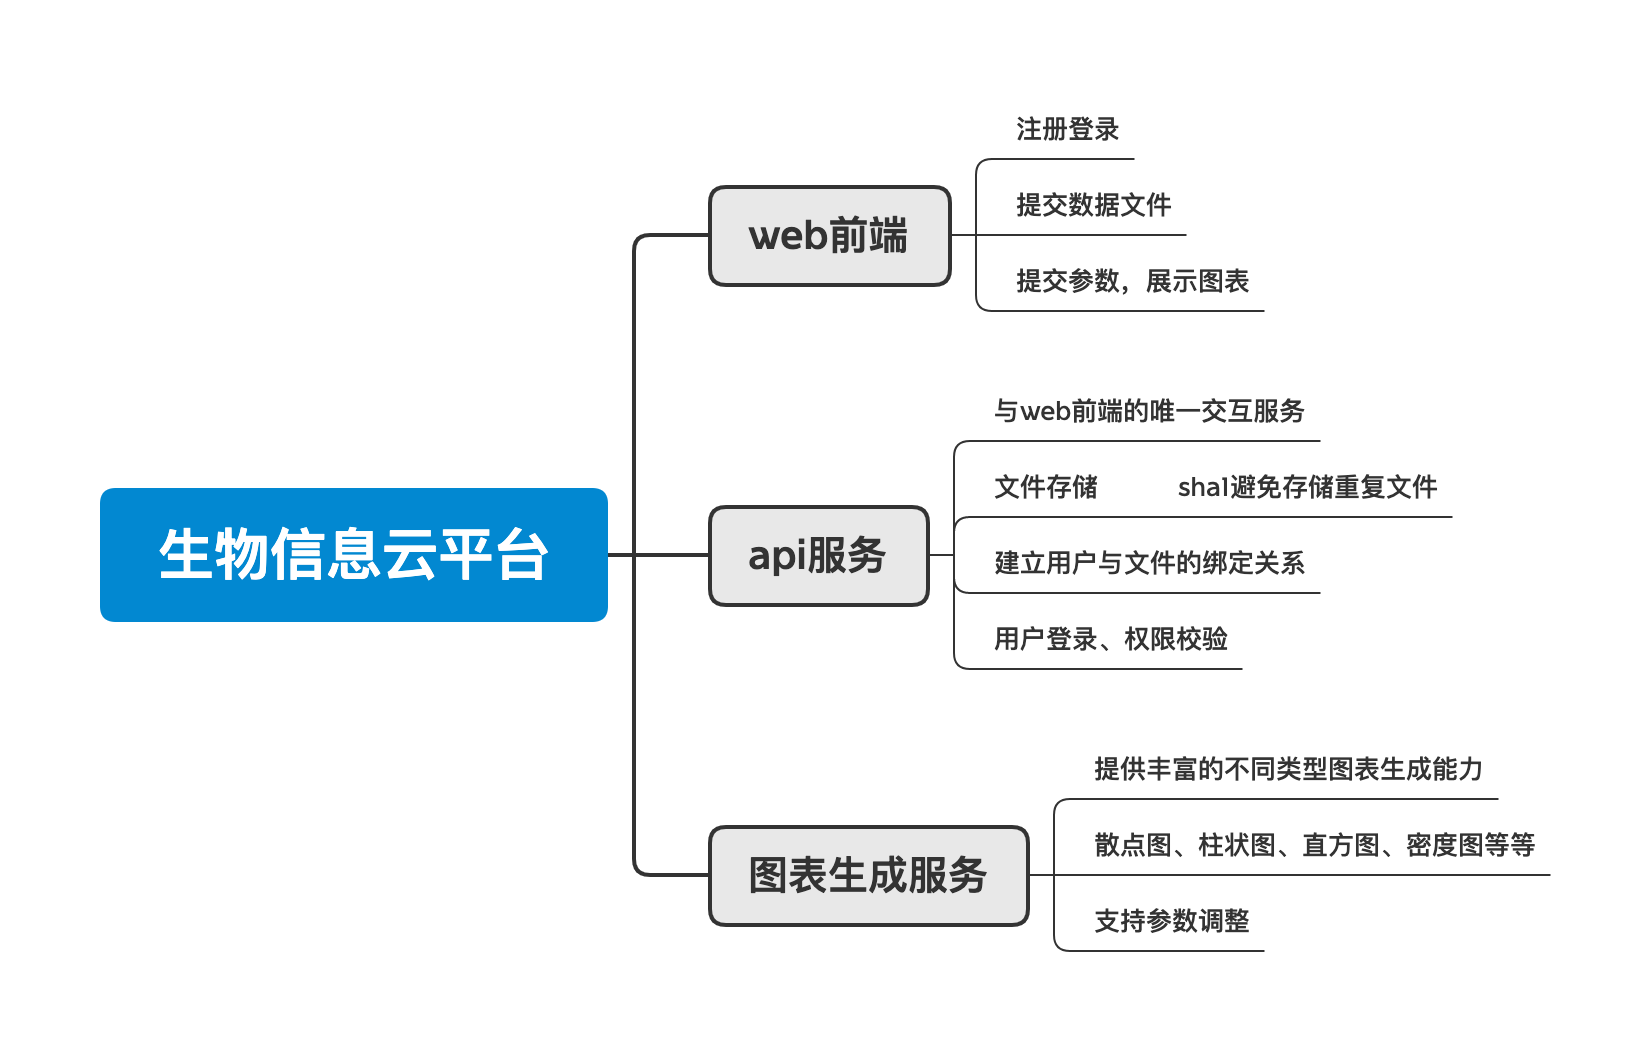
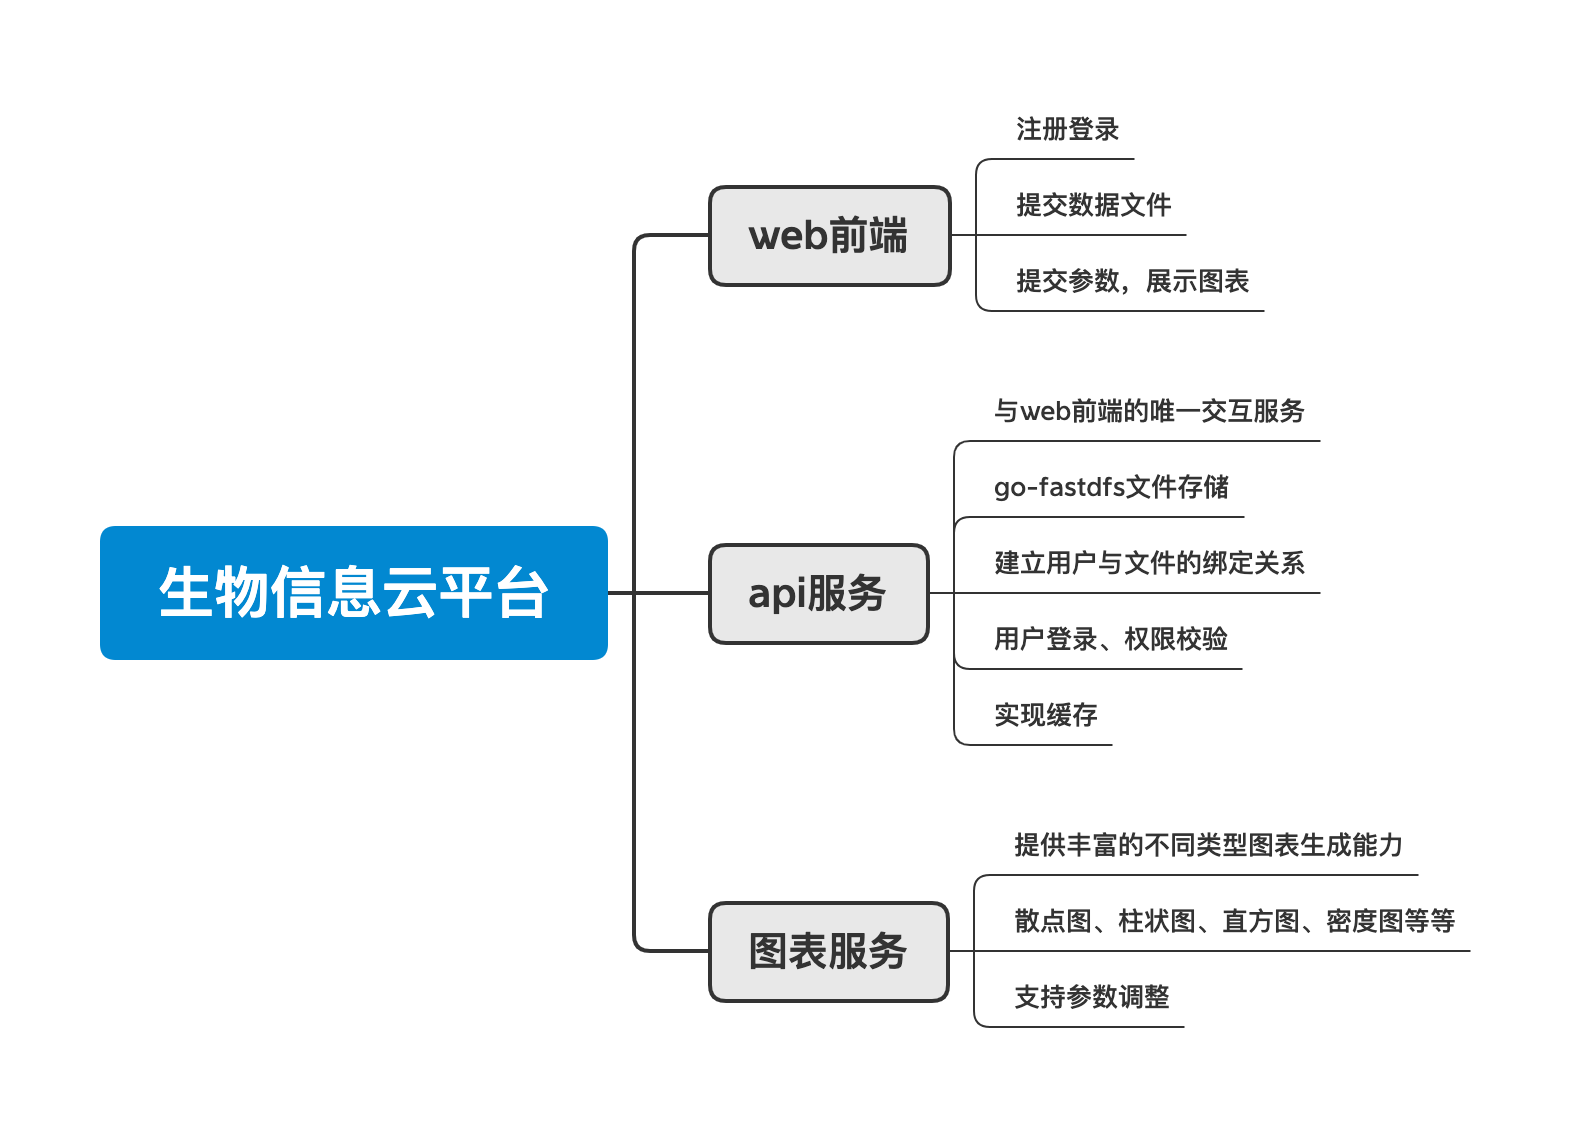
update

Changed region(s): [[0.0624, 0.0913, 0.9363, 0.9125], [0.0624, 0.4563, 0.0936, 0.4867]]

diff --git a/routers/init.go b/routers/init.go
@@ -24,8 +24,8 @@ func Setup() *gin.Engine {
 	router.Use(logger.GinLogger(), logger.GinRecovery(true))
 	config := cors.DefaultConfig()
 	config.AllowOrigins = settings.Conf.AllowOrigins
-	config.AllowCredentials = true
-	router.Use(cors.New(config))
+	//config.AllowCredentials = true
+	//router.Use(cors.New(config))
 	address := fmt.Sprintf("%s:%d", settings.Conf.RedisConfig.Host, settings.Conf.RedisConfig.Port)
 	store, err := redis.NewStore(16, "tcp", address, settings.Conf.RedisConfig.Password, []byte("secret"))
 	utils.CheckErr(err, "")
@@ -34,7 +34,8 @@ func Setup() *gin.Engine {
 	router.POST("/v1/login", v1.Login)
 	//router.Use(controller.SetAuthMiddleware())
 	SetUserRouter(router)
-	SetFileRouter(router)
+	//SetFileRouter(router)
+	SetChartRouter(router)
 	router.NoMethod(func(c *gin.Context) {
 		c.JSON(
 			http.StatusMethodNotAllowed,

diff --git a/settings/settings.go b/settings/settings.go
@@ -54,7 +54,7 @@ type BioChartConfig struct {
 
 func Init() (err error) {
 
-	viper.SetConfigFile("config.yaml")
+	viper.SetConfigFile("config_local.yaml")
 	//viper.SetConfigName("config") // 指定配置文件名称（不需要带后缀）
 	//viper.SetConfigType("yaml")   // 指定配置文件类型(专用于从远程获取配置信息时指定配置文件类型的)
 	viper.AddConfigPath(".")   // 指定查找配置文件的路径（这里使用相对路径）

diff --git a/controller/v1/file.go b/controller/v1/file.go
@@ -38,6 +38,7 @@ type uploadResp struct {
 // @Success 200 {object} utils.Resp
 // @Router /v1/upload [post]
 func Upload(c *gin.Context) {
+	// go-fastdfs 需要配置 peers 来组成集群：https://blog.csdn.net/tmt123421/article/details/90522244
 	//session := sessions.Default(c)
 	//userName := session.Get("userName").(string)
 	userName := "u231"

diff --git a/README.md b/README.md
@@ -14,3 +14,22 @@
 ![生物信息云平台部署图](生物信息云平台部署图.png)
 ![生物信息应用架构](生物信息应用架构.png)
 ![服务组成](服务组成.png)
+
+当前需要启动的服务：
+go-fastdfs文件存储服务
+Rserve
+java后端应用(下周重写成golang版本)
+golang后端应用
+vue前端(下周重写成react版本)
+
+启动Rserve：
+在R客户端中：
+library(Rserve)
+Rserve(args="--no-save", port=6312)
+
+文件保存路径：
+~/workspace/data/fastdfs/files
+
+R生成的图片保存路径：
+~/workspace/data/bio
+
